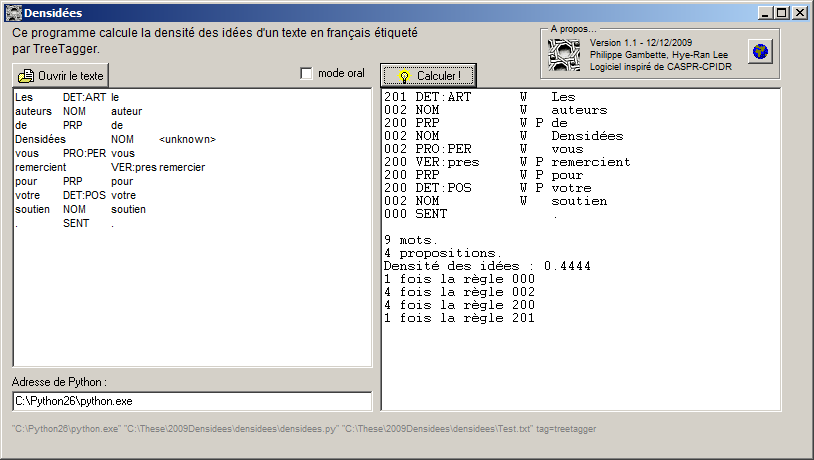
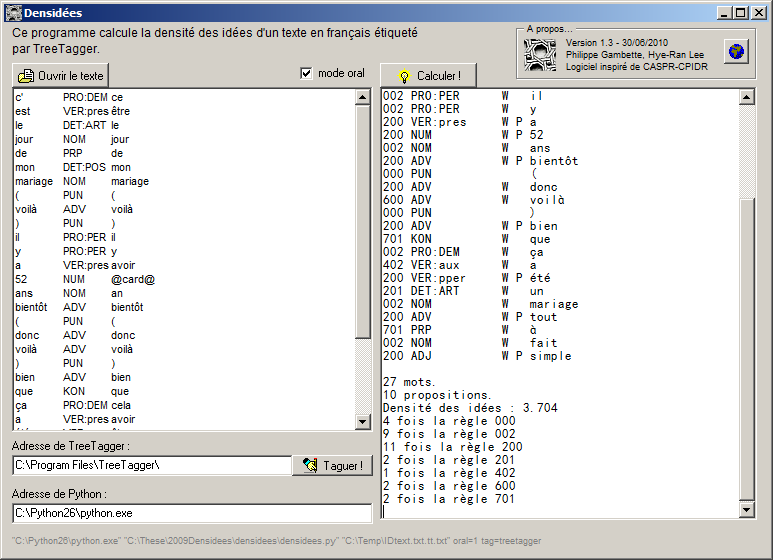
version 1.3  * appel automatique de TreeTagger depuis Densidées  * mode "invisible" permettant de n'afficher que le résultat, en ligne de commande  * calcul de la densité des idées comme ratio pour 10 mots selon la formule traditionnelle  * amélioration des règles 208, 301 et 701

Changed region(s): [[0.0, 0.0, 0.9935, 0.9739], [0.6831, 0.7, 0.7141, 0.7304]]

diff --git a/manualversioninfo.tex b/manualversioninfo.tex
@@ -1,3 +1,3 @@
-\def\VERSION{{1.2}}
-\def\dateversion{{07/03/2010}}
+\def\VERSION{{1.3}}
+\def\dateversion{{30/06/2010}}
 \def\nombreregles{35}
